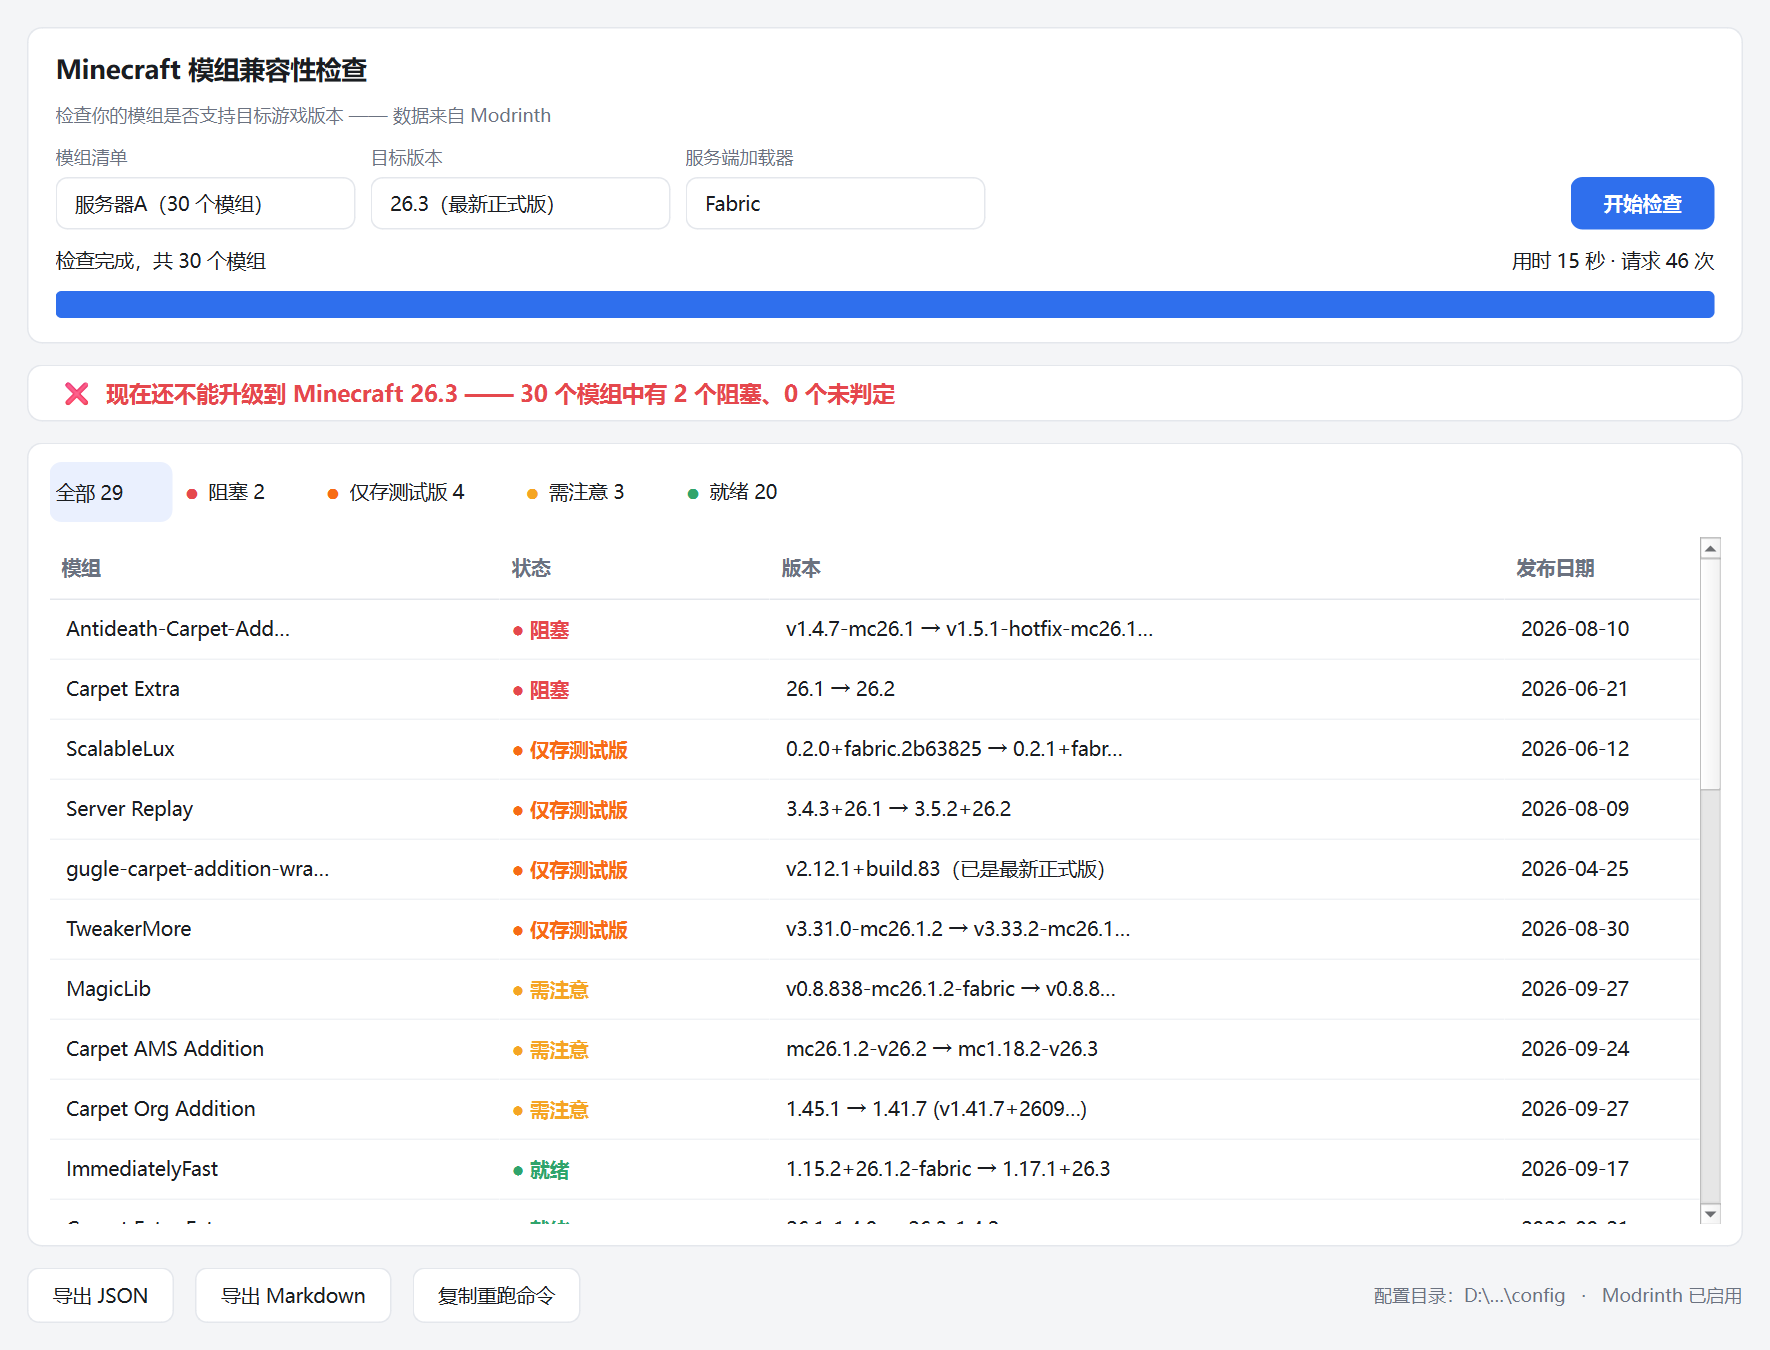
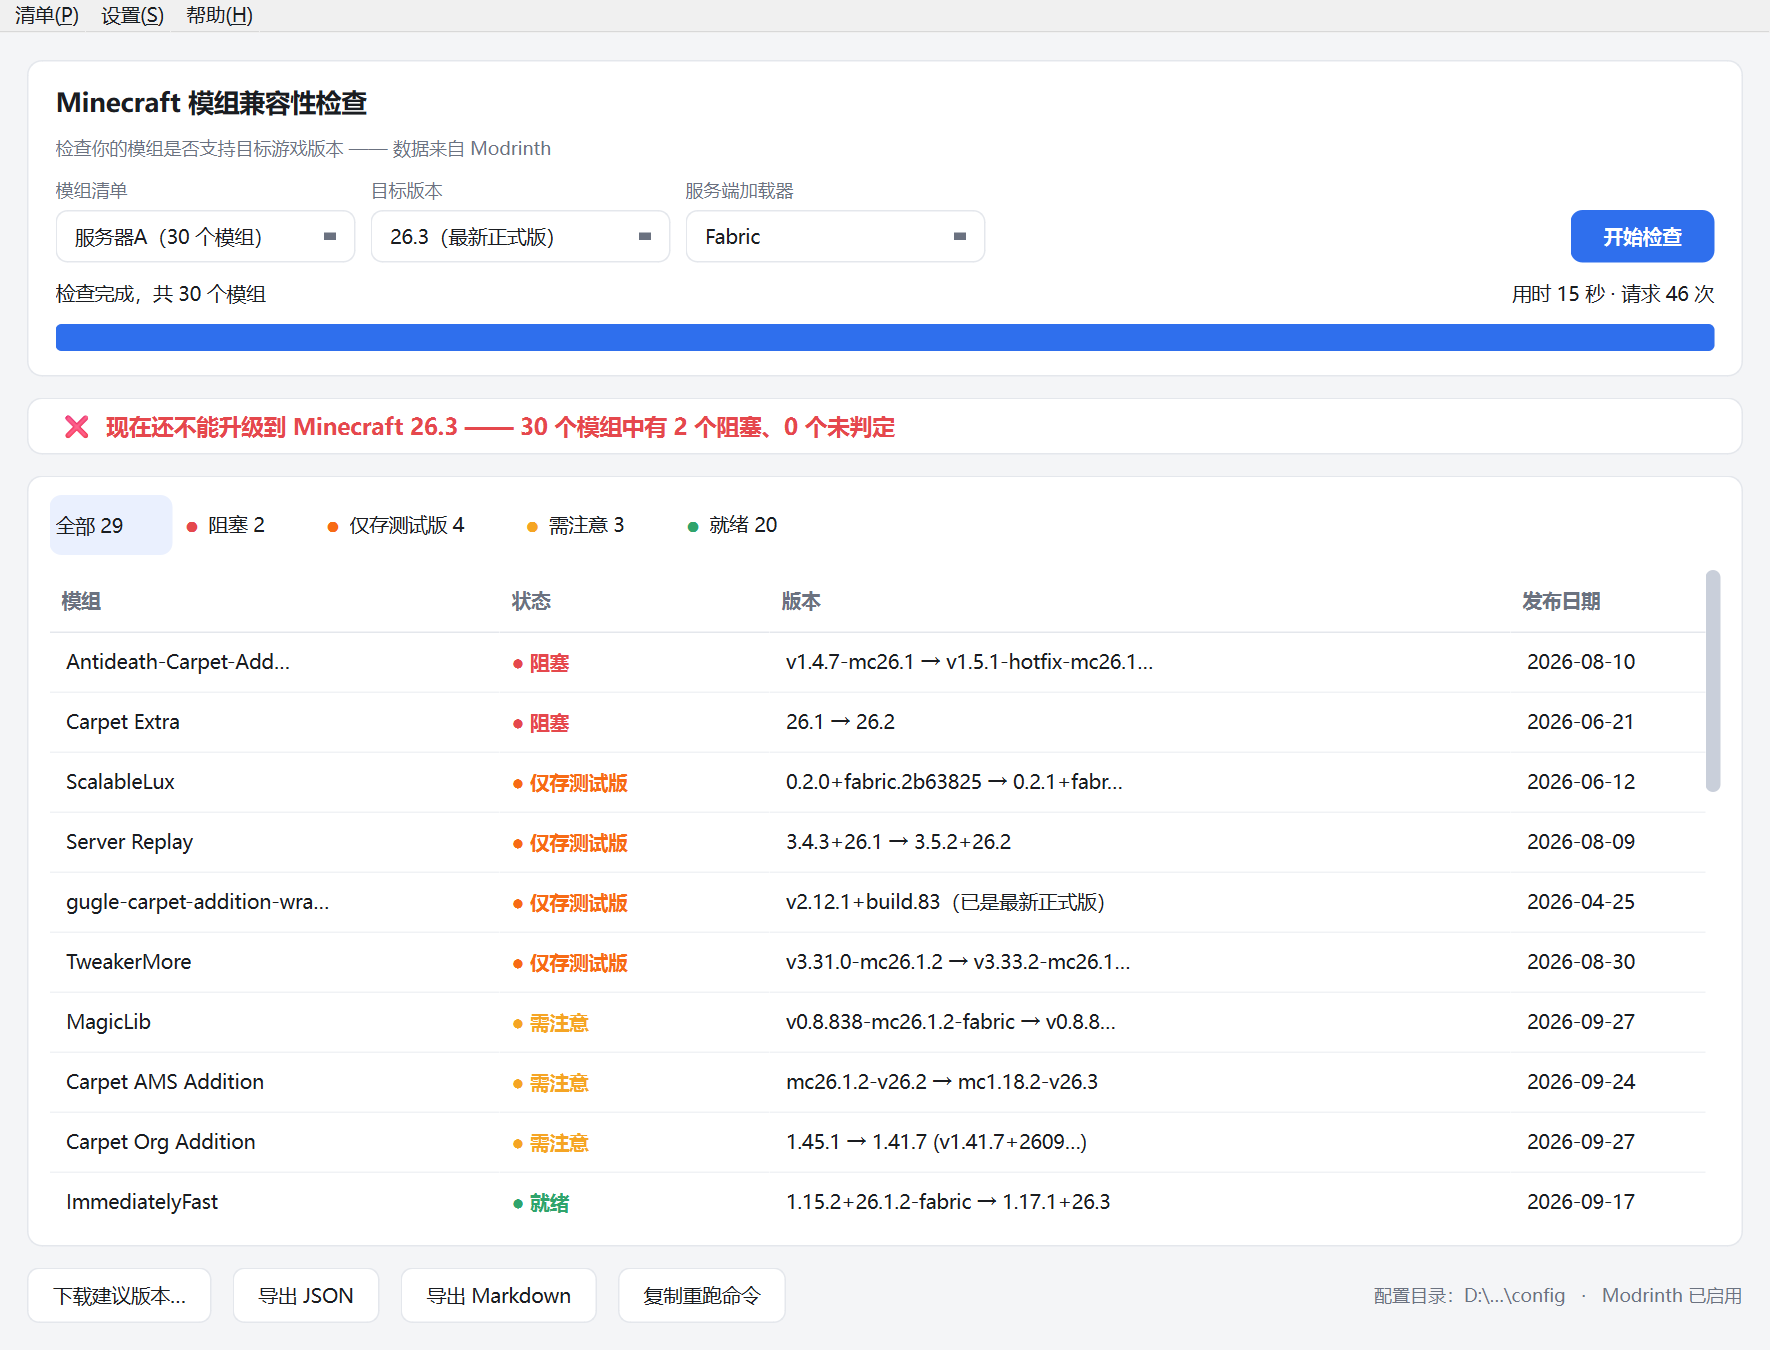
style(GUI): 滚动条/下拉列表/输入控件统一主题；焦点虚线框换成主题色细边（保留键盘可访问性）；下载改有界进度条

diff --git a/src/modcheck/gui/theme.py b/src/modcheck/gui/theme.py
@@ -68,6 +68,58 @@ QTableWidget::item {{ padding: 10px 8px; border-bottom: 1px solid #F0F2F5; }}
 QTableWidget::item:selected {{ background: {ACCENT_SOFT}; color: {TEXT}; }}
 QHeaderView::section {{ background: {CARD}; border: none; border-bottom: 1px solid {BORDER};
                         padding: 10px 8px; color: {MUTED}; font-weight: 600; text-align: left; }}
+
+/* ---------- 输入控件 ---------- */
+QLineEdit, QSpinBox, QDoubleSpinBox {{
+    background: {CARD}; border: 1px solid {BORDER}; border-radius: 8px; padding: 7px 10px;
+    selection-background-color: {ACCENT_SOFT}; selection-color: {TEXT};
+}}
+QLineEdit:hover, QSpinBox:hover {{ border-color: #C7CCD4; }}
+QLineEdit:focus, QSpinBox:focus, QComboBox:focus {{ border: 1px solid {ACCENT}; }}
+QSpinBox::up-button, QSpinBox::down-button {{ width: 18px; border: none; background: transparent; }}
+QCheckBox {{ spacing: 7px; }}
+
+/* ---------- 列表 ---------- */
+QListWidget {{ background: {CARD}; border: 1px solid {BORDER}; border-radius: 8px; padding: 4px; }}
+QListWidget::item {{ padding: 7px 8px; border-radius: 6px; }}
+QListWidget::item:selected {{ background: {ACCENT_SOFT}; color: {TEXT}; }}
+QListWidget::item:hover {{ background: #F5F7FA; }}
+
+/* ---------- 下拉框的弹出列表 ----------
+   QComboBox 的下拉是**独立的顶层视图**，不写这条它就用系统默认灰白样式，
+   跟整体主题明显不搭（视觉评审发现）。 */
+QComboBox QAbstractItemView {{
+    background: {CARD}; border: 1px solid {BORDER}; border-radius: 8px; padding: 4px;
+    outline: none; selection-background-color: {ACCENT_SOFT}; selection-color: {TEXT};
+}}
+QComboBox::down-arrow {{
+    image: none; width: 0; height: 0; margin-right: 10px;
+    border-left: 4px solid transparent; border-right: 4px solid transparent;
+    border-top: 5px solid {MUTED};
+}}
+QComboBox::down-arrow:on {{ border-top: 5px solid {ACCENT}; }}
+
+/* ---------- 滚动条 ----------
+   默认滚动条是 Windows 原生样式（有箭头按钮、直角、灰蓝），与整体不搭。 */
+QScrollBar:vertical {{ background: transparent; width: 10px; margin: 0; }}
+QScrollBar::handle:vertical {{ background: #C9CFDA; border-radius: 5px; min-height: 32px; }}
+QScrollBar::handle:vertical:hover {{ background: #AEB6C4; }}
+QScrollBar:horizontal {{ background: transparent; height: 10px; margin: 0; }}
+QScrollBar::handle:horizontal {{ background: #C9CFDA; border-radius: 5px; min-width: 32px; }}
+QScrollBar::handle:horizontal:hover {{ background: #AEB6C4; }}
+/* 去掉两端的箭头按钮与空白页 */
+QScrollBar::add-line, QScrollBar::sub-line {{ width: 0; height: 0; border: none; background: none; }}
+QScrollBar::add-page, QScrollBar::sub-page {{ background: none; }}
+
+/* ---------- 焦点提示 ----------
+   默认的**虚线焦点框**（点列表/表格时文字周围那圈点线）与主题不符。
+   注意：不能简单地 outline:none 了事 —— 那会让键盘用户完全看不到焦点在哪。
+   这里改成"选中用底色、键盘焦点用一条主题色细边"，既好看又不丢可访问性。 */
+QTableWidget::item:focus, QListWidget::item:focus, QTabBar::tab:focus {{ outline: none; }}
+QTableWidget {{ outline: none; }}
+QListWidget {{ outline: none; }}
+QPushButton:focus {{ border: 1px solid {ACCENT}; }}
+QPushButton#primary:focus {{ border: 1px solid {ACCENT_DARK}; }}
 """
 
 

diff --git a/src/modcheck/gui/download_dialog.py b/src/modcheck/gui/download_dialog.py
@@ -210,12 +210,18 @@ class DownloadDialog(QDialog):
         self._worker.done.connect(self._on_done)
         self._worker.failed.connect(self._on_failed)
         self._worker.finished.connect(self._on_finished)
-        self.bar.setRange(0, 0)
+        # ⚠ 用**有界**进度条（0..文件总数）而不是循环条：
+        # 循环条给不出"还剩多少"的信息，而下载恰恰是用户最想知道进度的时候。
+        # 下载是按文件并发的，回调给的就是 (已完成, 总数, 文件名)，直接对应。
+        total = len(self._prep.plan.items) if self._prep else 0
+        self.bar.setRange(0, max(total, 1))
+        self.bar.setValue(0)
         self.btn_go.setText("取消")
-        self.lb_progress.setText("正在下载……")
+        self.lb_progress.setText(f"正在下载 0/{total}……")
         self._worker.start()
 
     def _on_progress(self, done: int, total: int, name: str) -> None:
+        """逐个文件推进（与检查界面同一套观感）。"""
         if self.bar.maximum() != total:
             self.bar.setRange(0, total)
         self.bar.setValue(done)
